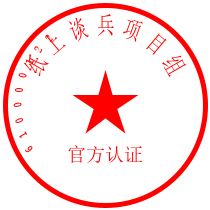
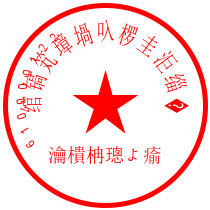
1
1

diff --git a/src/main/java/all/EntSealGenerateService.java b/src/main/java/all/EntSealGenerateService.java
@@ -1,9 +1,12 @@
 package all;
+
 import org.apache.pdfbox.io.IOUtils;
+
 import javax.imageio.ImageIO;
 import java.awt.*;
 import java.awt.image.BufferedImage;
 import java.io.*;
+import java.nio.charset.StandardCharsets;
 
 /**
  * @Description: 企业签章业务
@@ -15,8 +18,8 @@ public class EntSealGenerateService {
 
 
     public static void main(String[] args) {
-        EntSealGenerateService ent=new EntSealGenerateService();
-        byte[] bytes =   ent.generateEntSeal("纸上谈兵项目组","官方认证","610000122");
+        EntSealGenerateService ent = new EntSealGenerateService();
+        byte[] bytes = ent.generateEntSeal("纸上谈兵项目组", "官方认证", "610000122");
         try {
             // 使用ImageIO读取字节数组为BufferedImage对象（前提是字节数组数据符合相应图片格式规范）
             BufferedImage image = ImageIO.read(new java.io.ByteArrayInputStream(bytes));
@@ -31,17 +34,15 @@ public class EntSealGenerateService {
     }
 
     /**
+     * @return byte[]
      * @Description #生成企业签章
      * @Param [topText, middleText]
-     * @return byte[]
      **/
-    public byte[] generateEntSeal(String topText,String middleText,String securityCode){
+    public byte[] generateEntSeal(String topText, String middleText, String securityCode) {
 
-        byte[] bytes = export2pic("png",topText, middleText,securityCode);
+        byte[] bytes = export2pic("png", topText, middleText, securityCode);
         return bytes;
     }
-
-
 
 
     /**
@@ -95,7 +96,7 @@ public class EntSealGenerateService {
     private Color signFillColor = Color.RED;
 
 
-    public void draw(Graphics2D g2d,String topText,String middleText,String botttomText) {
+    public void draw(Graphics2D g2d, String topText, String middleText, String botttomText) {
         // 把绘制起点挪到圆中心点
         g2d.translate(width / 2, height / 2);
 
@@ -138,15 +139,15 @@ public class EntSealGenerateService {
         float angle;
         float start;
 
-        if(count>1 && count <=10){
+        if (count > 1 && count <= 10) {
             angle = 20f;// 字间角度
-            start = 90+(360 - angle*(count-1))/2;// 以x轴正向为0,顺时针旋转
-        }else if(count > 10){
-            angle = (360 - firmAngle) / (count-1);// 字间角度
-            start = 90+(360 - angle*(count-1))/2;// 以x轴正向为0,顺时针旋转
-        }else{
+            start = 90 + (360 - angle * (count - 1)) / 2;// 以x轴正向为0,顺时针旋转
+        } else if (count > 10) {
+            angle = (360 - firmAngle) / (count - 1);// 字间角度
+            start = 90 + (360 - angle * (count - 1)) / 2;// 以x轴正向为0,顺时针旋转
+        } else {
             angle = 0f;// 字间角度
-            start = 90+(360 - angle*(2-1))/2;// 以x轴正向为0,顺时针旋转
+            start = 90 + (360 - angle * (2 - 1)) / 2;// 以x轴正向为0,顺时针旋转
         }
         double vr = Math.toRadians(90);// 垂直旋转弧度
         char[] chars = topText.toCharArray();
@@ -167,45 +168,14 @@ public class EntSealGenerateService {
             g2d.translate(-x, 0);
             g2d.rotate(-radians);
         }
+        // 绘制印章底部文本（botttomText）开始
 
-
-// 绘制印章底部文本（botttomText）开始
-        g2d.setFont(getFirmFont(botttomText).deriveFont(Font.PLAIN, 12f)); // 调整字体大小为12
-        g2d.setColor(firmColor);
-        fm = g2d.getFontMetrics();
-        h = fm.getHeight(); // 字高度
-
-        int bottomCount = botttomText.length(); // 字数
-        int bottomR = (int) (width / 2 - h * 1.2f); // 半径减去字体高度的一半
-        float bottomAngle = 10f; // 字间角度
-        float bottomStart = 180 - (bottomAngle * (bottomCount - 1)) / 2; // 从180度开始，集中在底部
-
-        double bottomVr = Math.toRadians(90); // 垂直旋转弧度
-        char[] bottomChars = botttomText.toCharArray();
-        for (int i = 0; i < bottomCount; i++) {
-            char c = bottomChars[i]; // 需要绘制的字符
-            int bottomCw = fm.charWidth(c); // 此字符宽度
-            float a = bottomStart + bottomAngle * i; // 现在角度
-            double bottomRadians = Math.toRadians(a);
-            g2d.rotate(bottomRadians); // 旋转坐标系,让要绘制的字符处于x正轴
-            float bottomX = bottomR; // 绘制字符的x坐标为调整后的半径
-            g2d.translate(bottomX, h); // 移动到此位置,确保字在底部
-            g2d.rotate(bottomVr); // 旋转90度,让字平行于x轴
-            g2d.drawString(String.valueOf(c), -bottomCw / 2, 0); // 此点为字的中心点
-            // 将所有设置还原,等待绘制下一个
-            g2d.rotate(-bottomVr);
-            g2d.translate(-bottomX, -h); // 注意这里的y坐标调整
-            g2d.rotate(-bottomRadians);
-        }
-// 绘制印章底部文本（botttomText）结束
-        g2d.setRenderingHint(RenderingHints.KEY_ANTIALIASING, RenderingHints.VALUE_ANTIALIAS_ON);
     }
 
     /**
      * 获取具有指定半径外接圆的五角星顶点
      *
-     * @param radius
-     *            圆半径
+     * @param radius 圆半径
      */
     private Polygon getPentaclePoints(float radius) {
         if (radius <= 0)
@@ -241,40 +211,39 @@ public class EntSealGenerateService {
 
     private Font nameFont = new Font("宋体", Font.PLAIN, 19);
 
-    private Font getFirmFont(String topText){
+    private Font getFirmFont(String topText) {
         Font font = null;
         int len = topText.length();
         System.out.println(len);
-        if(len==1){
+        if (len == 1) {
             setFirmAngle(355);
             font = new Font("宋体", Font.PLAIN, 25);
-        }else if(len>1 && len<=3){
+        } else if (len > 1 && len <= 3) {
             setFirmAngle(310);
             font = new Font("宋体", Font.PLAIN, 25);
-        }else if(len>3 && len<=6){
+        } else if (len > 3 && len <= 6) {
             setFirmAngle(250);
             font = new Font("宋体", Font.PLAIN, 25);
-        }else if(len>6 && len <=10){
+        } else if (len > 6 && len <= 10) {
             setFirmAngle(200);
             font = new Font("宋体", Font.PLAIN, 25);
-        }else if(len>10 && len<=13){
+        } else if (len > 10 && len <= 13) {
             setFirmAngle(180);
             font = new Font("宋体", Font.PLAIN, 25);
-        }
-        else if(len>13 && len<=20){
+        } else if (len > 13 && len <= 20) {
             font = new Font("宋体", Font.PLAIN, 25);
             setFirmAngle(120);
-        }else if(len>20 && len <= 25){
+        } else if (len > 20 && len <= 25) {
             font = new Font("宋体", Font.PLAIN, 23);
 
             setFirmAngle(80);
-        }else if(len>25 && len < 30){
+        } else if (len > 25 && len < 30) {
             setFirmAngle(80);
             font = new Font("宋体", Font.PLAIN, 19);
-        }else if(len>=30 && len <= 40){
+        } else if (len >= 30 && len <= 40) {
             setFirmAngle(80);
             font = new Font("宋体", Font.PLAIN, 19);
-        }else{
+        } else {
             setFirmAngle(10);
             font = new Font("宋体", Font.PLAIN, 17);
         }
@@ -282,9 +251,9 @@ public class EntSealGenerateService {
     }
 
 
-
     private int firmAngle;
-    public void setFirmAngle(int firmAngle){
+
+    public void setFirmAngle(int firmAngle) {
         this.firmAngle = firmAngle;
     }
 
@@ -292,14 +261,12 @@ public class EntSealGenerateService {
     /**
      * 导出此印章为透明背景的图片字节数组.
      *
-     * @param format
-     *            图片类型,如果为null,则默认为png
+     * @param format 图片类型,如果为null,则默认为png
      * @return 数组
      * @throws FileNotFoundException
-     * @throws IOException
-     *             写出图像数据出现问题
+     * @throws IOException           写出图像数据出现问题
      */
-    public byte[] export2pic(String format,String topText,String middleText,String bottomText)  {
+    public byte[] export2pic(String format, String topText, String middleText, String bottomText) {
         int fix = 5;// 宽高修正,如果宽高就为图片宽高,可能边框线被切割
         BufferedImage bi = new BufferedImage(getWidth() + fix * 2, getHeight()
                 + fix * 2, 3);
@@ -309,17 +276,17 @@ public class EntSealGenerateService {
         //防锯齿状毛刺算法
         g2d.setRenderingHint(RenderingHints.KEY_ANTIALIASING, RenderingHints.VALUE_ANTIALIAS_ON);
         g2d.translate(fix, fix);
-        draw(g2d,topText,middleText,bottomText);
+        draw(g2d, topText.getBytes(StandardCharsets.UTF_8), middleText, bottomText);
 
         ByteArrayOutputStream baos = new ByteArrayOutputStream();
         try {
             ImageIO.write(bi, format == null ? "png" : format, baos);
             return baos.toByteArray();
         } catch (IOException e) {
-            throw new RuntimeException(topText+"：生成企业签章失败",e);
-        }finally {
+            throw new RuntimeException(topText + "：生成企业签章失败", e);
+        } finally {
             try {
-                if(baos!=null)
+                if (baos != null)
                     baos.close();
             } catch (IOException e) {
             }
